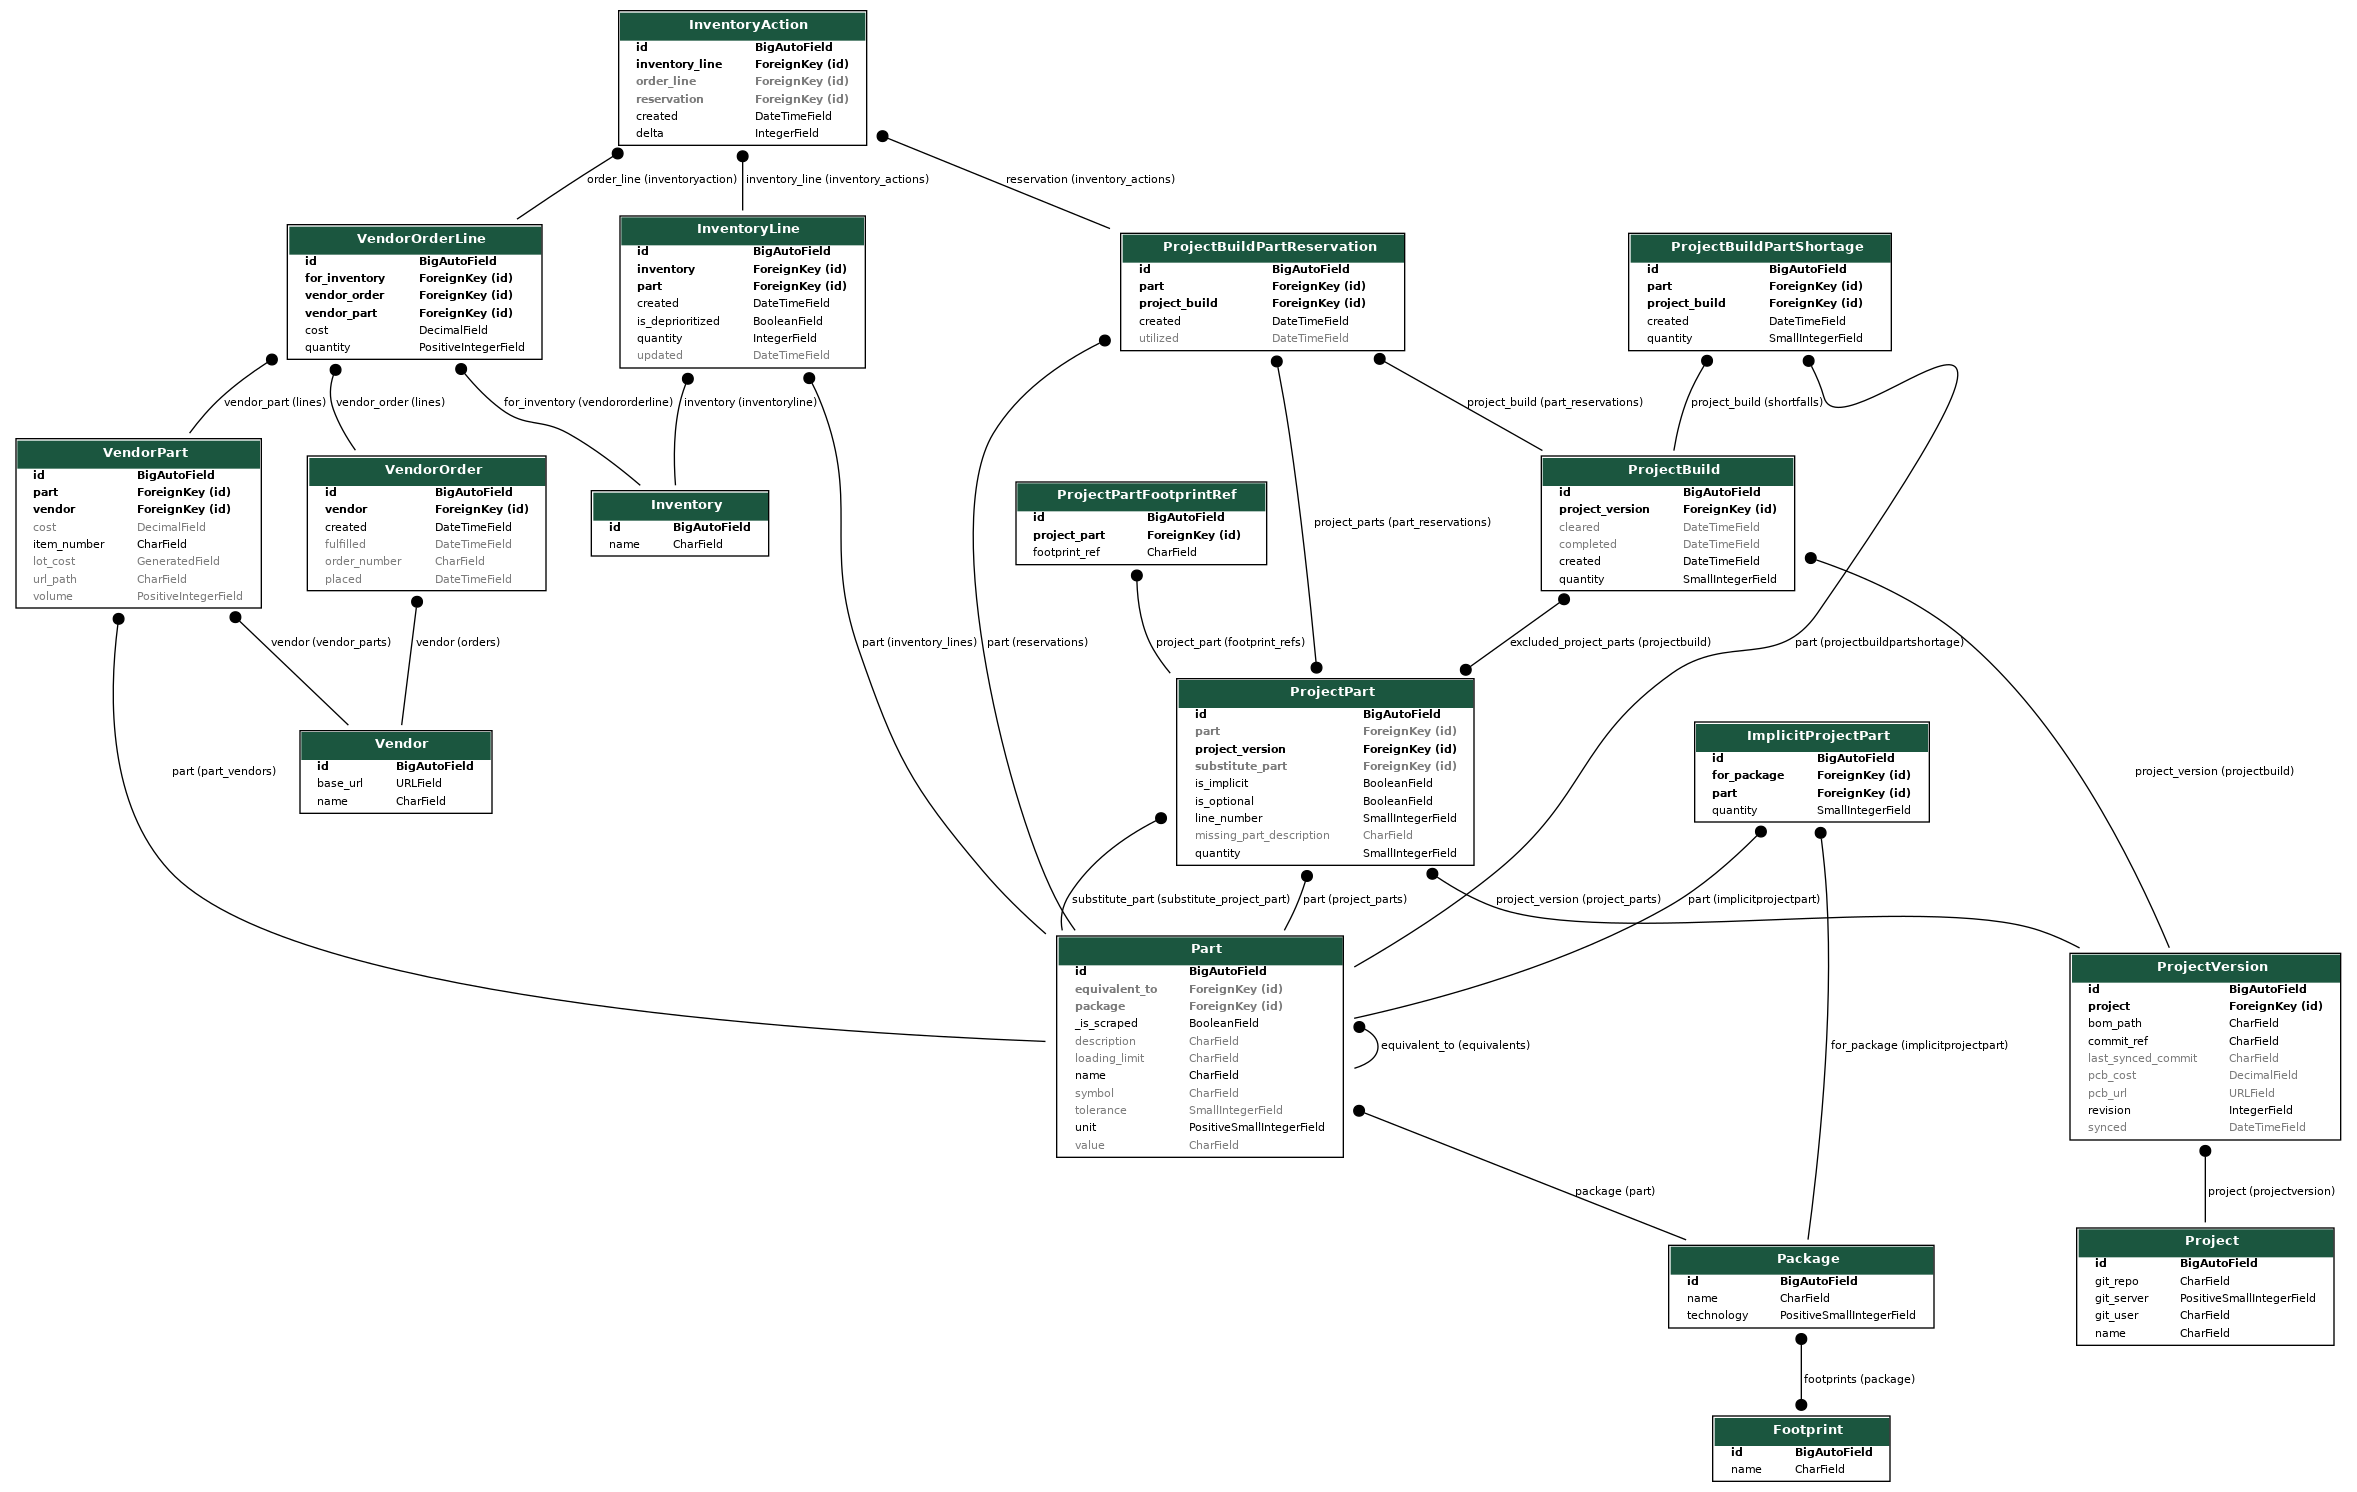
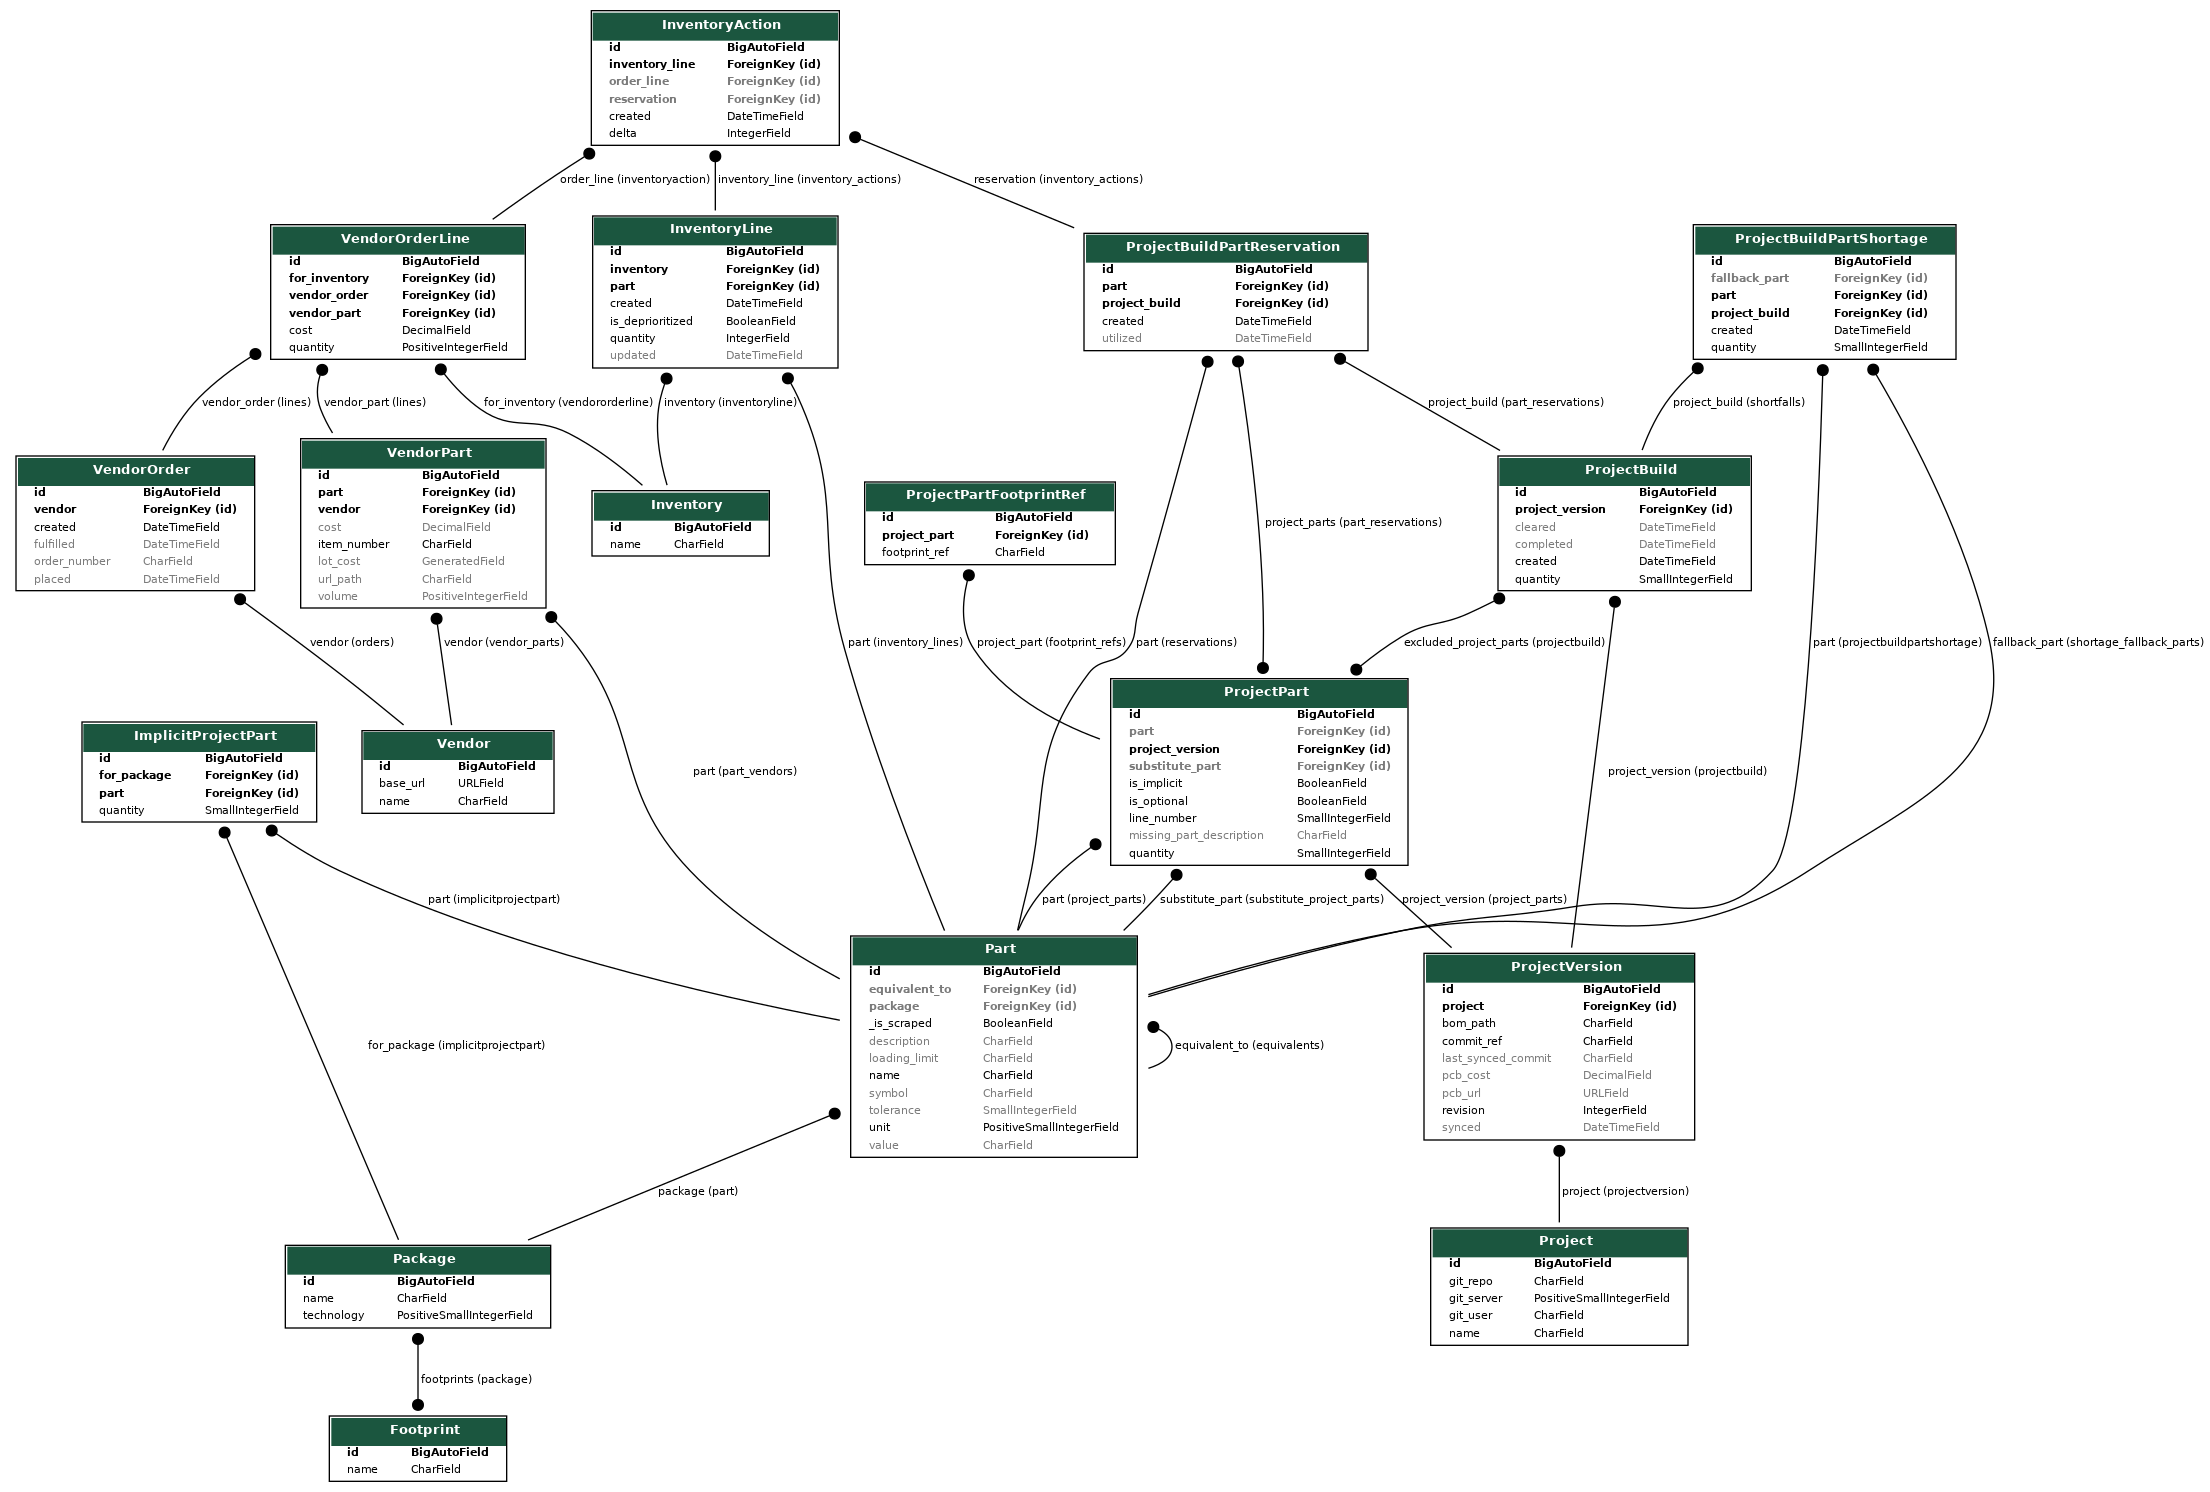
feat: add fallback part

diff --git a/django_ctb/templates/admin/django_ctb/project_build_bom.html b/django_ctb/templates/admin/django_ctb/project_build_bom.html
@@ -42,13 +42,13 @@
     <tr>
       <td>{{ part_reservation.line_numbers }}</td>
       <td>{{ part_reservation.footprints }}</td>
-      <td><a href="{% url 'admin:django_ctb_part_change' part_reservation.part.pk %}">{{ part_reservation.part }}</a></td>
       {% for inventory_action in part_reservation.inventory_actions.all %}
         {% if not forloop.first %}
           </tr>
-            <td colspan="3"></td>
           <tr>
+            <td colspan="2"></td>
         {% endif %}
+        <td><a href="{% url 'admin:django_ctb_part_change' inventory_action.inventory_line.part.pk %}">{{ inventory_action.inventory_line.part }}</a></td>
         <td>{{ inventory_action.delta|cut:"-" }}</td>
         <td><a href="{% url 'admin:django_ctb_inventoryline_change' inventory_action.inventory_line.pk %}">inv</a></td>
         <td align="right">{{ inventory_action.inventory_line.quantity_on_hand }}</td>
@@ -57,13 +57,13 @@
     </tr>
   {% endfor %}
   <tr>
-    <td colspan="5">(*) Marked parts are optional</td>
+    <td colspan="7">(*) Marked parts are optional</td>
   </tr>
   <tr>
-    <td colspan="5"><b>Qty On Hand</b>: The number of parts in physical inventory <i>before</i> doing this build.</td>
+    <td colspan="7"><b>Qty On Hand</b>: The number of parts in physical inventory <i>before</i> doing this build.</td>
   </tr>
   <tr>
-    <td colspan="5"><b>Qty Pending</b>: The number of parts in physical inventory <i>after</i> all pending and cleared builds have been built.</td>
+    <td colspan="7"><b>Qty Pending</b>: The number of parts in physical inventory <i>after</i> all pending and cleared builds have been built.</td>
   </tr>
 </table>
 

diff --git a/django_ctb/services/build.py b/django_ctb/services/build.py
@@ -51,7 +51,7 @@ class ProjectBuildPartReservationService:
 class PartSatisfactionManager:
     """
     Manages satisfaction of combined demand for parts in a project build.
-    This is a receptical in which to accumulate project parts which use a
+    This is a receptacle in which to accumulate project parts which use a
     common part, then to assess the stock of said part (or it's equivalents),
     finally creating reservations or shortages.
 
@@ -150,16 +150,36 @@ class PartSatisfactionManager:
             )
         return _equivalents
 
-    def _get_inventory_lines_queryset(self):
-        # determine equivalent parts
-        _equivalents = PartSatisfactionManager.find_equivalent_parts(
-            part=self.part,
-        )
+    def _get_inventory_lines(self) -> list[models.InventoryLine]:
+        def _get_inventory_lines_for_part(part) -> list[models.InventoryLine]:
+            # determine equivalent parts
+            _equivalents = PartSatisfactionManager.find_equivalent_parts(
+                part=part,
+            )
+            # get inventory lines for all equivalent parts
+            _inventory_lines = models.InventoryLine.objects.filter(
+                part__in=_equivalents, is_deprioritized=False
+            ).order_by("quantity")
+            return list(_inventory_lines)
 
-        # get inventory lines for all equivalent parts
-        inventory_lines = models.InventoryLine.objects.filter(
-            part__in=_equivalents, is_deprioritized=False
-        ).order_by("quantity")
+        # get inventory lines for actual part
+        inventory_lines = _get_inventory_lines_for_part(self.part)
+
+        # get fallback part from past shortage
+        shortage: models.ProjectBuildPartShortage | None = None
+        try:
+            shortage = models.ProjectBuildPartShortage.objects.get(
+                part=self.part,
+                project_build=self.project_build,
+                fallback_part__isnull=False,
+            )
+        except models.ProjectBuildPartShortage.DoesNotExist:
+            pass
+        if shortage is not None:
+            # get inventory lines for fallback part
+            inventory_lines.extend(
+                _get_inventory_lines_for_part(shortage.fallback_part)
+            )
         return inventory_lines
 
     def _debit_inventory_for_reservation(
@@ -175,7 +195,7 @@ class PartSatisfactionManager:
         """
         logger.info(">> Debiting inventory")
         # deduct from inventory lines until need is fulfilled
-        for inventory_line in self._get_inventory_lines_queryset():
+        for inventory_line in self._get_inventory_lines():
             depletion = min(self.unfulfilled, inventory_line.quantity)
             self._ensure_inventory_action(
                 inventory_line=inventory_line,
@@ -230,8 +250,8 @@ class PartSatisfactionManager:
             logger.info(">> No stock needed...")
             return
         logger.info(f">> Checking stock for {self.part} (need {self.needed} parts)")
-        inventory_lines = self._get_inventory_lines_queryset()
-        total_stock = sum(inventory_lines.values_list("quantity", flat=True))
+        inventory_lines = self._get_inventory_lines()
+        total_stock = sum([line.quantity for line in inventory_lines])
         if self.unfulfilled > total_stock:
             logger.info("!!!! Insufficient stock")
             self.fulfilled += total_stock

diff --git a/tests/services/test_build.py b/tests/services/test_build.py
@@ -619,6 +619,44 @@ class TestProjectBuildServiceClearToBuild:
             project_build.part_reservations.all()
         )
 
+    def test__clear_to_build__fallback_part(
+        self, project_part, project_build, part, part_factory, inventory_line_factory
+    ):
+        """
+        :scenario: Clear To Build Process will utilize fallback parts for
+                   Project Builds to overcome shortage
+
+        | GIVEN a project uses a part with insufficient stock
+        | AND the project clear to build process has been run
+        | AND the project build part shortage has been updated to have a fallback part
+        | AND the fallback part has stock
+        | WHEN the project clear to build process is re-run
+        | THEN all the stock of the given part will be reserved
+        | AND the fallback part will be reserved to cover the remaining need
+        | AND subsequent runs of the project clear to build process will succeed
+        """
+        inventory_line_factory(part=part, quantity=4)
+        with pytest.raises(InsufficientInventory) as exc:
+            s.ProjectBuildService()._clear_to_build(project_build)
+        shortage = exc.value.shortages[0]
+        fallback_part = part_factory(name="fallback", symbol="F")
+        shortage.fallback_part = fallback_part
+        shortage.save()
+        _line = inventory_line_factory(part=fallback_part, quantity=10)
+        reservations = s.ProjectBuildService()._clear_to_build(project_build)
+        assert len(reservations) == 1
+        assert reservations[0].inventory_actions.count() == 2
+        action_1 = reservations[0].inventory_actions.all()[0]
+        assert action_1 is not None
+        assert action_1.inventory_line.part == part
+        assert action_1.delta == -4
+        action_2 = reservations[0].inventory_actions.all()[1]
+        assert action_2 is not None
+        assert action_2.inventory_line.part == fallback_part
+        assert action_2.delta == -2
+
+        s.ProjectBuildService()._clear_to_build(project_build)
+
     def test__clear_to_build__is_idempotent(
         self,
         part_factory,

diff --git a/django_ctb/migrations/0002_projectbuildpartshortage_fallback_part_and_more.py b/django_ctb/migrations/0002_projectbuildpartshortage_fallback_part_and_more.py
@@ -1,0 +1,24 @@
+# Generated by Django 6.0.2 on 2026-04-05 13:12
+
+import django.db.models.deletion
+from django.db import migrations, models
+
+
+class Migration(migrations.Migration):
+
+    dependencies = [
+        ('django_ctb', '0001_initial'),
+    ]
+
+    operations = [
+        migrations.AddField(
+            model_name='projectbuildpartshortage',
+            name='fallback_part',
+            field=models.ForeignKey(blank=True, help_text='This part will be used to cover this shortage upon re-clearing', null=True, on_delete=django.db.models.deletion.CASCADE, related_name='shortage_fallback_parts', to='django_ctb.part'),
+        ),
+        migrations.AlterField(
+            model_name='projectpart',
+            name='substitute_part',
+            field=models.ForeignKey(blank=True, help_text='When set, the substitute part will be used instead of the actual part', null=True, on_delete=django.db.models.deletion.PROTECT, related_name='substitute_project_parts', to='django_ctb.part'),
+        ),
+    ]

diff --git a/django_ctb/models.py b/django_ctb/models.py
@@ -6,6 +6,7 @@ import re
 from typing import TYPE_CHECKING
 
 from django.db import models
+from django.db.models.fields import related
 from django.utils import timezone
 from pydantic import AliasChoices, BaseModel, Field, field_validator
 
@@ -451,7 +452,7 @@ class ProjectPart(models.Model):
     substitute_part = models.ForeignKey(
         Part,
         on_delete=models.PROTECT,
-        related_name="substitute_project_part",
+        related_name="substitute_project_parts",
         null=True,
         blank=True,
         help_text=(
@@ -564,6 +565,15 @@ class ProjectBuildPartShortage(models.Model):
         ProjectBuild, on_delete=models.CASCADE, related_name="shortfalls"
     )
     created = models.DateTimeField(default=timezone.now)
+
+    fallback_part = models.ForeignKey(
+        Part,
+        on_delete=models.CASCADE,
+        related_name="shortage_fallback_parts",
+        null=True,
+        blank=True,
+        help_text="Part to be used to cover this shortage upon re-clearing",
+    )
 
 
 class ProjectBuildPartReservation(models.Model):

diff --git a/django_ctb/admin.py b/django_ctb/admin.py
@@ -149,7 +149,7 @@ class VendorPartAdmin(admin.ModelAdmin):
 
 
 @admin.register(models.ImplicitProjectPart)
-class ImplicityProjectPartAdmin(admin.ModelAdmin):
+class ImplicitProjectPartAdmin(admin.ModelAdmin):
     list_display = ("part", "for_package", "quantity")
 
 
@@ -257,7 +257,7 @@ class ProjectPartAdmin(admin.ModelAdmin):
 
 
 class ProjectBuildPartShortageInline(admin.TabularInline):
-    fields = ("part", "quantity")
+    fields = ("part", "fallback_part", "quantity")
     model = models.ProjectBuildPartShortage
     extra = 0
 

diff --git a/CHANGELOG.md b/CHANGELOG.md
@@ -4,11 +4,18 @@ Changes to this project will be documented in this file.
 ## [Unreleased]
 ### Added
 ### Changed
-- Clean up clear to build logs
 ### Removed
+### Fixed
+
+## [0.1.1] -- UNRELEASED
+### Added
+- Add `fallback_part` to `ProjectBuildPartShortage`; `fallback_part` will be used upon re-clearing a project to cover the shortage of the original part
+### Changed
+- Clean up clear to build logs
 ### Fixed
 - Bug which prevented projects from clearing due to parts shortages despite existing reservations covering that part.
 - Bug in admin preventing Project Builds from displaying
+- Build BOM displaying multiple inventory actions
 
 ## [0.1.0]
 ### DATABASE BREAKING CHANGES

diff --git a/docs/source/guide.rst b/docs/source/guide.rst
@@ -166,6 +166,8 @@ ProjectBuildPartShortage
 
 When a project build cannot be ``cleared`` due to a lack of parts in the inventory a part shortage will be created.
 
+A ``fallback_part`` can be defined for any part shortage, the part specified will be used to fill that shortage the next time the build is cleared.
+
 ProjectBuildPartReservation
 ^^^^^^^^^^^^^^^^^^^^^^^^^^^^^^^^^^^^^^^^^^^^^^^^
 